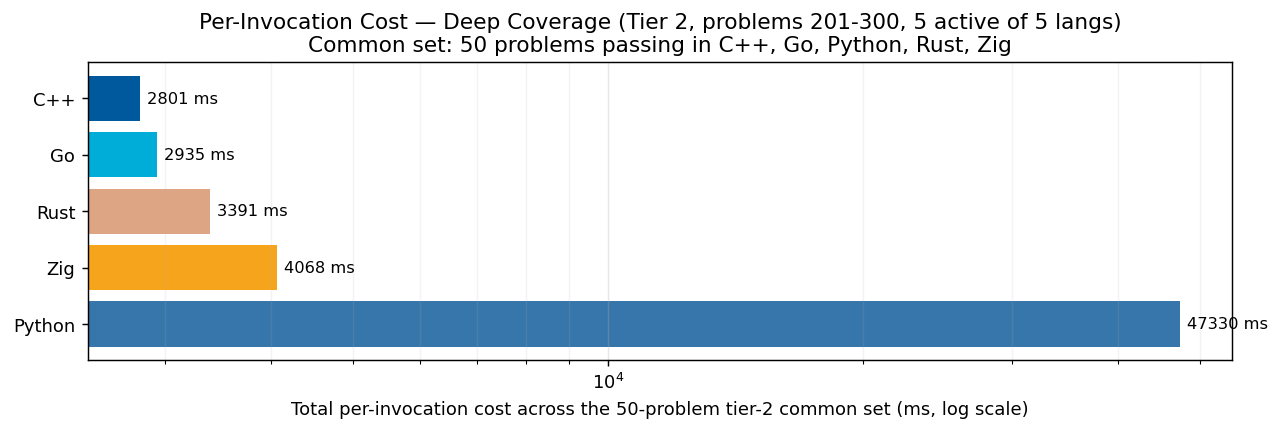
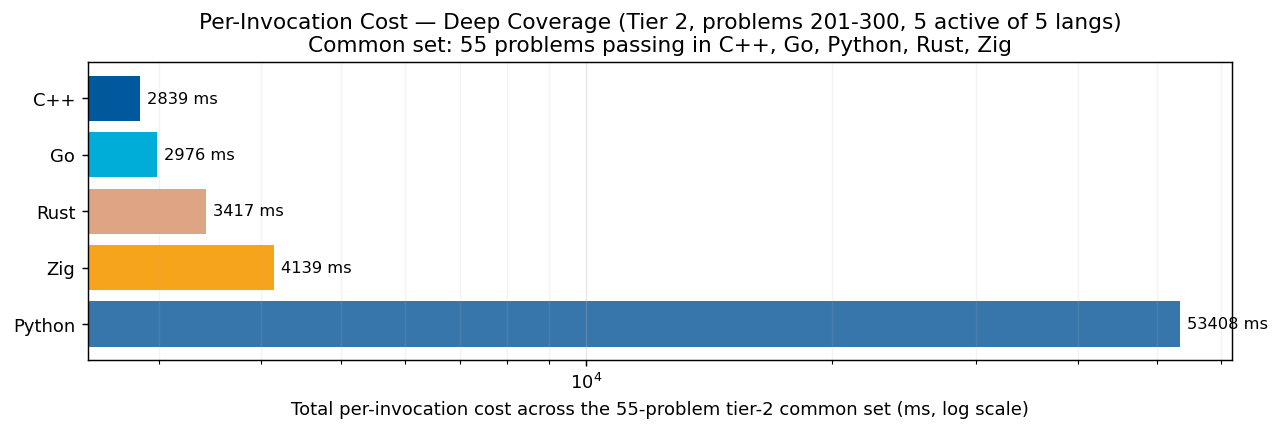
publish: +5 Rust cells (wave 4 agent G); tier-2 rust at 61/96 (64%), all 3 waves landed

diff --git a/RESULTS.md b/RESULTS.md
@@ -1,6 +1,6 @@
 # Project Euler — Cross-Language Benchmarks
 
-> **Scope: 2500 in-scope cells across 300 problems × tiered languages — 2404 measured (96.2% coverage).**
+> **Scope: 2500 in-scope cells across 300 problems × tiered languages — 2409 measured (96.4% coverage).**
 > The cross-language ranking below is computed over the **199-problem common set** (problems in 1-200 where every language has a passing measurement) — the apples-to-apples Foundation comparison surface.  Per-tier rankings and coverage detail appear further below.
 > Growing carefully — each new problem and language is audited for state-leak
 > safety, verified for answer correctness, and added only when it cleanly fits the
@@ -46,17 +46,17 @@ How much code does each language need to solve these 200 Foundation problems, an
 
 Same per-invocation metric, restricted to the deeper subset of languages (C++, Go, Python, Rust, Zig) that intentionally pushed past problem 200. The other 5 Foundation languages are out of tier scope here — they're capped at 200 by the project's language-cap policy (see JOURNEY.md).
 
-### Per-Invocation Cost (Common Set, 50 of 100 problems)
+### Per-Invocation Cost (Common Set, 55 of 100 problems)
 
 ![Per-Invocation Cost — Tier 2](charts/per_iter_total_tier2.png)
 
-| Rank | Language | Total (50-problem common set) | Lines of code | vs Fastest |
+| Rank | Language | Total (55-problem common set) | Lines of code | vs Fastest |
 |------|----------|--------------------:|--------------:|-----------:|
-| 1 | **C++** | 2.80 s | 6,329 | 1.00× |
-| 2 | **Go** | 2.94 s | 4,292 | 1.05× |
-| 3 | **Rust** | 3.39 s | 4,058 | 1.21× |
-| 4 | **Zig** | 4.07 s | 4,703 | 1.45× |
-| 5 | **Python** | 47.33 s | 2,899 | 16.90× |
+| 1 | **C++** | 2.84 s | 7,162 | 1.00× |
+| 2 | **Go** | 2.98 s | 4,810 | 1.05× |
+| 3 | **Rust** | 3.42 s | 4,574 | 1.20× |
+| 4 | **Zig** | 4.14 s | 5,217 | 1.46× |
+| 5 | **Python** | 53.41 s | 3,219 | 18.81× |
 
 ### Speed vs Code Size
 

diff --git a/per_problem/per_problem_201-300.md b/per_problem/per_problem_201-300.md
@@ -87,15 +87,15 @@ column per language in tier-1 display order (native → managed → interpreted)
 | **p275** | 81.69 s | — | — | — | — |
 | **p276** | 74.11 ms | 67.66 ms | 64.82 ms | 82.33 ms | 1.14 s |
 | **p277** | 6.3 µs | 6.0 µs | 5.7 µs | 24.2 µs | 19.4 µs |
-| **p278** | 32.83 ms | — | 65.32 ms | 34.54 ms | 5.95 s |
+| **p278** | 32.83 ms | 21.11 ms | 65.32 ms | 34.54 ms | 5.95 s |
 | **p279** | 696.04 ms | — | 930.62 ms | 707.18 ms | 5.60 s |
-| **p280** | 1.25 ms | — | 1.18 ms | 1.43 ms | 107.74 ms |
+| **p280** | 1.25 ms | 1.43 ms | 1.18 ms | 1.43 ms | 107.74 ms |
 | **p281** | 378.7 µs | 15.7 µs | 31.3 µs | 305.1 µs | 380.2 µs |
-| **p282** | 16.8 µs | — | 17.0 µs | 8.2 µs | 138.2 µs |
+| **p282** | 16.8 µs | 13.6 µs | 17.0 µs | 8.2 µs | 138.2 µs |
 | **p283** | 1.47 s | — | 1.57 s | 3.13 s | — |
 | **p284** | 252.42 ms | — | 276.56 ms | 324.38 ms | 16.30 s |
-| **p285** | 3.64 ms | — | 4.20 ms | 4.93 ms | 10.40 ms |
-| **p286** | 116.8 µs | — | 149.9 µs | 183.7 µs | 11.76 ms |
+| **p285** | 3.64 ms | 3.73 ms | 4.20 ms | 4.93 ms | 10.40 ms |
+| **p286** | 116.8 µs | 287.8 µs | 149.9 µs | 183.7 µs | 11.76 ms |
 | **p287** | 788.43 ms | — | 500.55 ms | 577.46 ms | — |
 | **p288** | 131.74 ms | 72.96 ms | 137.20 ms | 45.75 ms | 737.05 ms |
 | **p289** | — | — | — | — | — |
